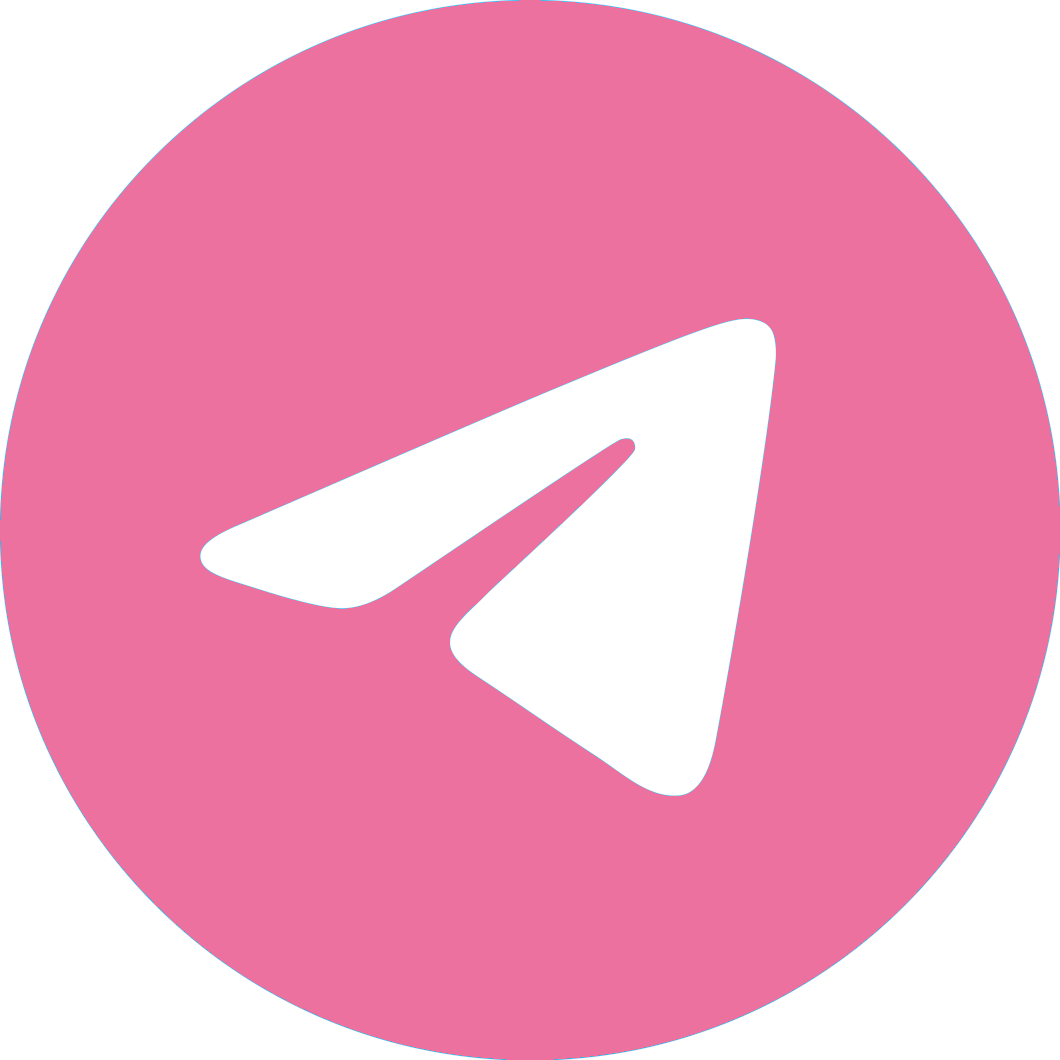
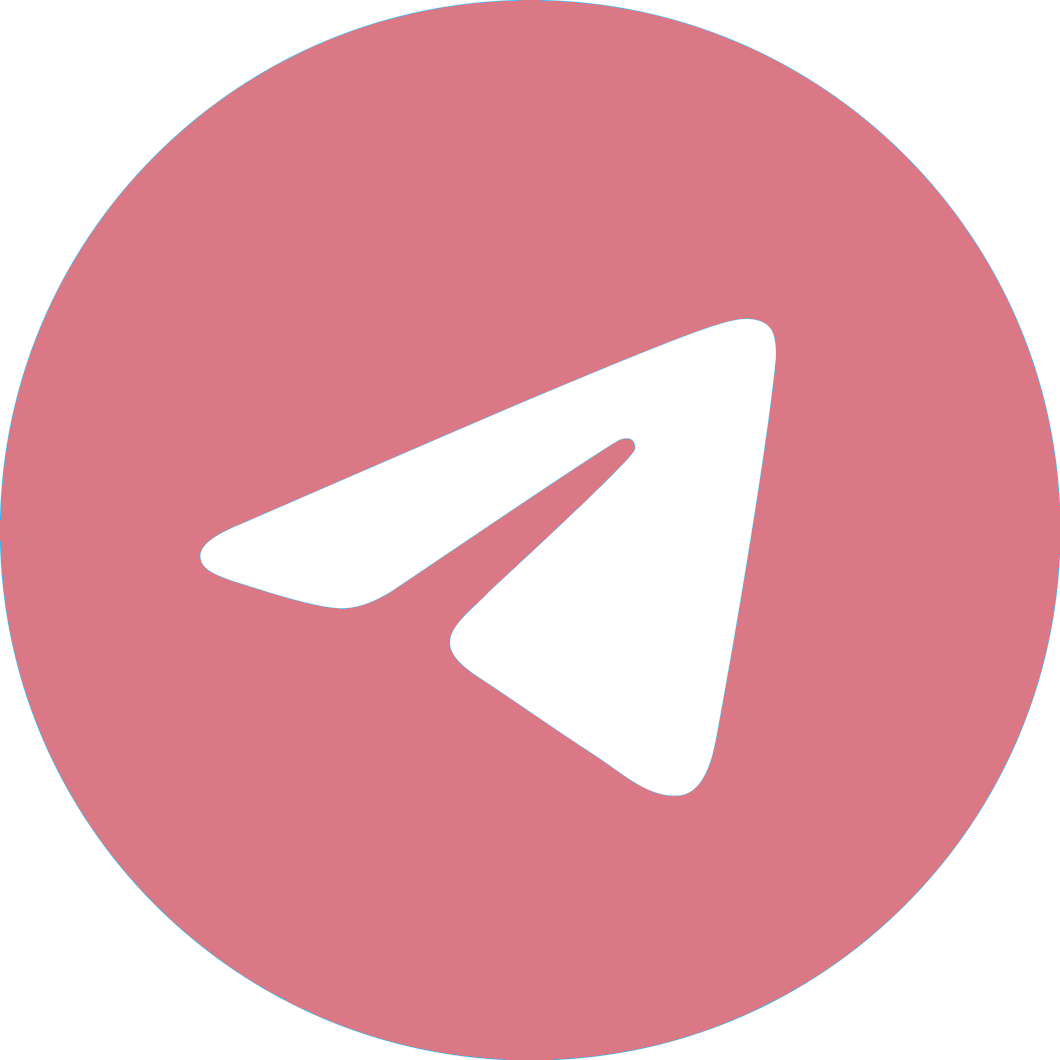
README.md

diff --git a/README.md b/README.md
@@ -6,26 +6,30 @@
 <p align="center">
   <!-- Typing SVG by DenverCoder1 - https://github.com/DenverCoder1/readme-typing-svg -->
   <a href="https://github.com/DenverCoder1/readme-typing-svg">
-    <img src="https://readme-typing-svg.demolab.com/?lines=Backend%20developer;Java/Kotlin;Always%20learning%20new%20things&font=Fira%20Code&center=true&width=440&height=45&color=ed719e&vCenter=true&pause=1000&size=22" /></a>
+    <img src="https://readme-typing-svg.demolab.com/?lines=Backend%20developer;Java/Kotlin;Always%20learning%20new%20things&font=Fira%20Code&center=true&width=440&height=45&color=da7885&vCenter=true&pause=1000&size=22" /></a>
 </p>
 
 <!-- Social icons section -->
 <p align="center">
-  <a href="https://www.linkedin.com/in/alan-kassymbek/"><img width="32px" alt="LinkedIn" title="LinkedIn" src="https://i.imgur.com/yRpa1dQ.png"/></a>
+  <a href="https://www.linkedin.com/in/alan-kassymbek/"><img width="32px" alt="LinkedIn" title="LinkedIn" src="assets/linkedin.png"/></a>
   &#8287;&#8287;&#8287;&#8287;&#8287;
   <a href="https://t.me/ton_tony"><img width="30px" alt="Telegram" title="Telegram" src="assets/telegram.png"/></a>
   &#8287;&#8287;&#8287;&#8287;&#8287;
 </p>
 
+![](http://github-profile-summary-cards.vercel.app/api/cards/profile-details?username=CopeMonster&theme=date_night)
+![](http://github-profile-summary-cards.vercel.app/api/cards/repos-per-language?username=CopeMonster&theme=date_night)
+![](http://github-profile-summary-cards.vercel.app/api/cards/stats?username=CopeMonster&theme=date_night)
+
 <details open> 
   <summary><h2>📘 My Top Open Source Projects</h2></summary>
 
   <p align="left">
-    <a href="https://github.com/CopeMonster/Copium"><img width="278" src="https://denvercoder1-github-readme-stats.vercel.app/api/pin/?username=CopeMonster&repo=Copium&theme=react&bg_color=1F222E&title_color=ed719e&hide_border=true&icon_color=F8D866&show_icons=false" alt="copium"></a>
-    <a href="https://github.com/CopeMonster/OpportuNetRewrite"><img width="278" src="https://denvercoder1-github-readme-stats.vercel.app/api/pin/?username=CopeMonster&repo=OpportuNetRewrite&theme=react&bg_color=1F222E&title_color=ed719e&hide_border=true&icon_color=F8D866&show_icons=false" alt="OpportuNetRewrite"></a>
+    <a href="https://github.com/CopeMonster/Copium"><img width="278" src="https://denvercoder1-github-readme-stats.vercel.app/api/pin/?username=CopeMonster&repo=Copium&theme=react&bg_color=1F222E&title_color=da7885&hide_border=true&icon_color=F8D866&show_icons=false" alt="copium"></a>
+    <a href="https://github.com/CopeMonster/OpportuNetRewrite"><img width="278" src="https://denvercoder1-github-readme-stats.vercel.app/api/pin/?username=CopeMonster&repo=OpportuNetRewrite&theme=react&bg_color=1F222E&title_color=da7885&hide_border=true&icon_color=F8D866&show_icons=false" alt="OpportuNetRewrite"></a>
   </p>
 
 <a href="https://github.com/CopeMonster?tab=repositories&sort=stargazers"><img alt="All Repositories" title="All Repositories" src="https://custom-icon-badges.demolab.com/badge/-Click%20Here%20For%20All%20My%20Repos-1F222E?style=for-the-badge&logoColor=white&logo=repo"/></a>
 </details>
 
-![Leetcode Stats](https://leetcard.jacoblin.cool/CopeMonster)
+![LeetCode Stats](https://leetcard.jacoblin.cool/JacobLinCool?theme=radical&font=Over%20the%20Rainbow)
